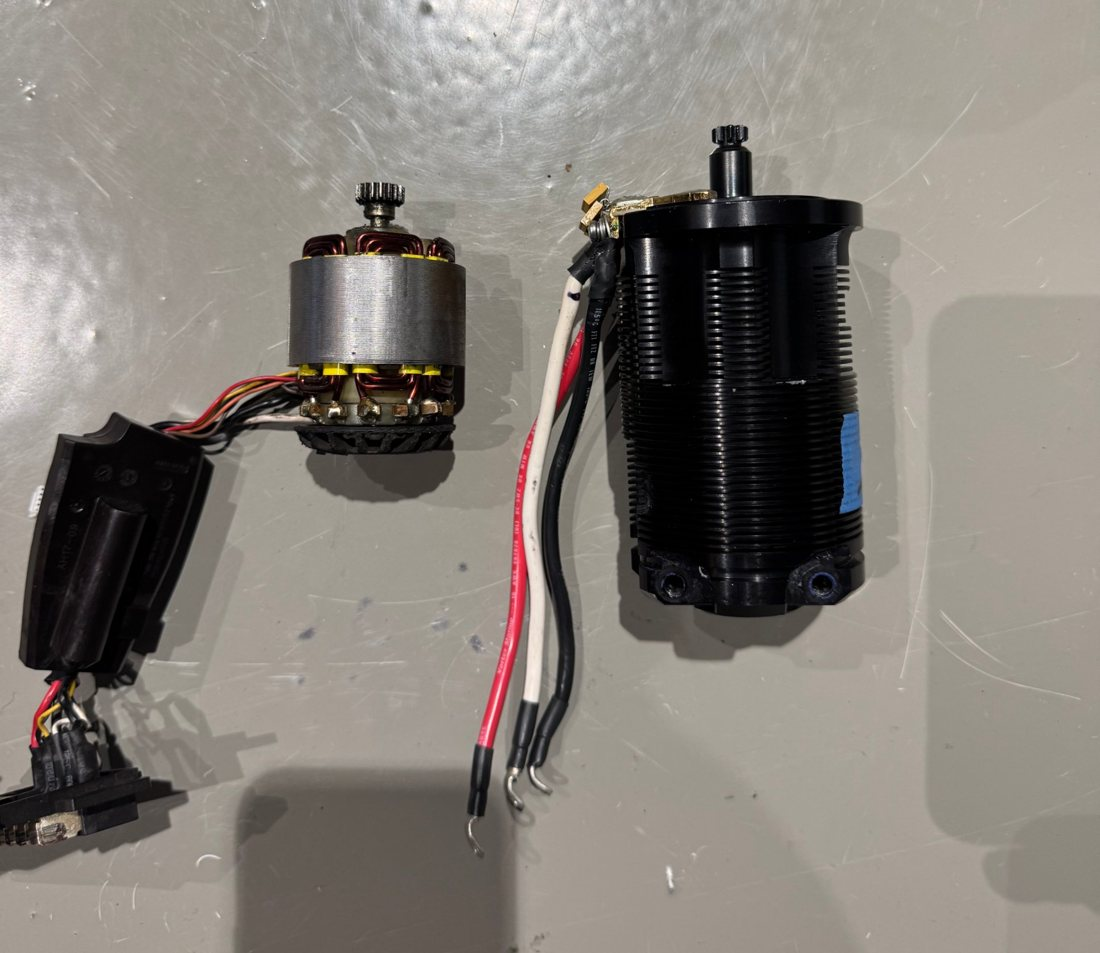
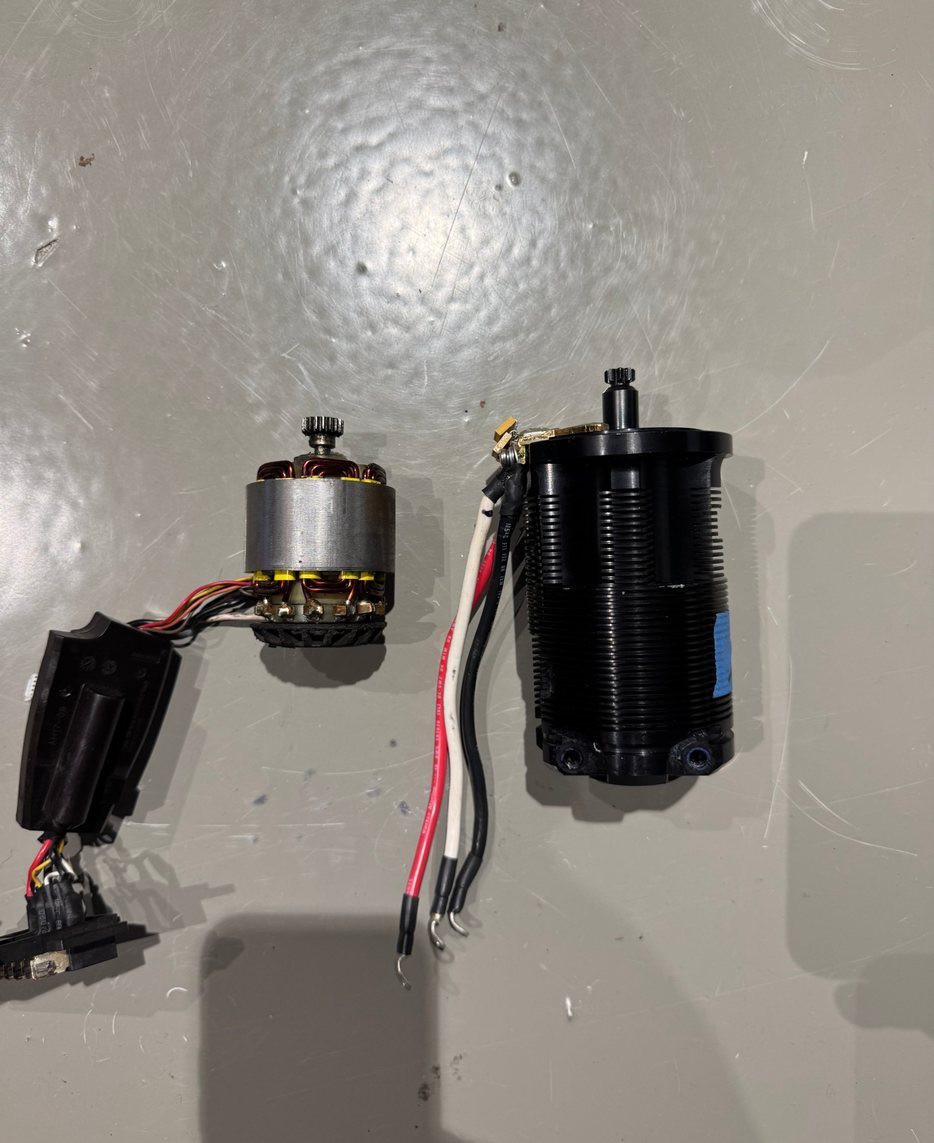
Equal-size images with enlarge and download option
Claude-Session: https://claude.ai/code/session_012P9K6FR71o1HDx9MVQ2to6

diff --git a/index.html b/index.html
@@ -174,12 +174,19 @@ table { border-collapse: collapse; width: 100%; }
 .advgrid .n { font-family: var(--font-display); font-weight: 700; font-size: 22px; line-height: 1; color: var(--accent); grid-row: span 2; padding-top: 2px; }
 .advgrid b { font-weight: 600; }
 .advgrid span.d { color: var(--muted); font-size: 14px; }
-.figs { display: grid; grid-template-columns: minmax(0, 1.15fr) minmax(0, 1fr); gap: 16px; align-items: start; }
+.figs { display: grid; grid-template-columns: repeat(2, minmax(0, 1fr)); gap: 16px; align-items: start; }
 .fig { margin: 0; display: flex; flex-direction: column; gap: 8px; }
-.fig img { width: 100%; height: auto; display: block; border-radius: 8px; border: 1px solid var(--line); cursor: zoom-in; }
+.figbtn { display: block; padding: 0; border: 1px solid var(--line); border-radius: 8px; overflow: hidden; background: #111; cursor: zoom-in; aspect-ratio: 934 / 1143; width: 100%; }
+.figbtn img { width: 100%; height: 100%; object-fit: cover; display: block; }
 .fig figcaption { font-size: 13px; color: var(--muted); }
-.fig.zoom { grid-column: 1 / -1; align-items: center; }
-.fig.zoom img { max-width: 860px; cursor: zoom-out; }
+.lb { position: fixed; inset: 0; z-index: 50; background: rgba(8, 12, 18, .88); display: none; flex-direction: column; align-items: center; gap: 12px; padding: 16px; }
+.lb.open { display: flex; }
+.lb-bar { display: flex; gap: 10px; align-items: center; flex-wrap: wrap; justify-content: center; }
+.lb-bar .t { color: #e7ecf2; font-weight: 500; }
+.lb-bar a, .lb-bar button { font: inherit; font-weight: 500; padding: 8px 16px; border-radius: 8px; border: 1px solid #5b6878; background: transparent; color: #e7ecf2; cursor: pointer; text-decoration: none; }
+.lb-bar a.dl { background: #e7ecf2; color: #13202f; border-color: #e7ecf2; }
+.lb-img { flex: 1; min-height: 0; max-width: 100%; display: flex; align-items: center; justify-content: center; }
+.lb-img img { max-width: 100%; max-height: 100%; object-fit: contain; border-radius: 6px; }
 @media (max-width: 760px) {
   .advgrid { grid-template-columns: minmax(0, 1fr); }
   .figs { grid-template-columns: minmax(0, 1fr); }
@@ -256,12 +263,16 @@ table { border-collapse: collapse; width: 100%; }
     </ul>
     <div class="figs">
       <figure class="fig">
-        <img src="img/motor.jpg" alt="Dva rozebrané motory vedle sebe: vlevo motor s vinutým statorem a elektronikou, vpravo nový motor v černém žebrovaném pouzdru" loading="lazy">
-        <figcaption>Porovnání motorů: B-RAD Select (vlevo) a nový motor B-RAD X (vpravo). Kliknutím obrázek zvětšíte.</figcaption>
+        <button type="button" class="figbtn" data-full="img/motor-velky.jpg" data-name="B-RAD-X-motory.jpg" data-title="Porovnání motorů B-RAD Select a B-RAD X" aria-label="Zvětšit obrázek: porovnání motorů">
+          <img src="img/motor.jpg" alt="Dva rozebrané motory vedle sebe: vlevo motor s vinutým statorem a elektronikou, vpravo nový motor v černém žebrovaném pouzdru" loading="lazy">
+        </button>
+        <figcaption>Porovnání motorů: B-RAD Select (vlevo) a nový motor B-RAD X (vpravo). Kliknutím zvětšíte a můžete stáhnout.</figcaption>
       </figure>
       <figure class="fig">
-        <img src="img/vyhody.jpg" alt="Přehled výhod B-RAD X oproti B-RAD Select: opakovatelnost, rychlost, účinnost, bezpečnostní prvky, baterie, ergonomie a odolnost" loading="lazy">
-        <figcaption>Výhody B-RAD X oproti B-RAD Select (podklad RAD Torque Systems). Kliknutím obrázek zvětšíte.</figcaption>
+        <button type="button" class="figbtn" data-full="img/vyhody-velky.jpg" data-name="B-RAD-X-vyhody.jpg" data-title="Výhody B-RAD X oproti B-RAD Select" aria-label="Zvětšit obrázek: výhody B-RAD X">
+          <img src="img/vyhody.jpg" alt="Přehled výhod B-RAD X oproti B-RAD Select: opakovatelnost, rychlost, účinnost, bezpečnostní prvky, baterie, ergonomie a odolnost" loading="lazy">
+        </button>
+        <figcaption>Výhody B-RAD X oproti B-RAD Select (podklad RAD Torque Systems). Kliknutím zvětšíte a můžete stáhnout.</figcaption>
       </figure>
     </div>
   </section>
@@ -555,10 +566,38 @@ table { border-collapse: collapse; width: 100%; }
   update();
 })();
 </script>
+<div class="lb" id="lb" role="dialog" aria-modal="true" aria-label="Náhled obrázku">
+  <div class="lb-bar">
+    <span class="t" id="lb-t"></span>
+    <a class="dl" id="lb-dl" href="#" download>Stáhnout obrázek</a>
+    <a id="lb-open" href="#" target="_blank" rel="noopener">Otevřít v novém okně</a>
+    <button type="button" id="lb-close">Zavřít</button>
+  </div>
+  <div class="lb-img"><img id="lb-img" alt=""></div>
+</div>
 <script>
-Array.prototype.forEach.call(document.querySelectorAll('.fig img'), function (img) {
-  img.addEventListener('click', function () { img.parentNode.classList.toggle('zoom'); });
-});
+(function () {
+  var lb = document.getElementById('lb'), last = null;
+  function open(btn) {
+    last = btn;
+    var src = btn.getAttribute('data-full');
+    document.getElementById('lb-img').src = src;
+    document.getElementById('lb-img').alt = btn.querySelector('img').alt;
+    document.getElementById('lb-t').textContent = btn.getAttribute('data-title');
+    var dl = document.getElementById('lb-dl');
+    dl.href = src; dl.setAttribute('download', btn.getAttribute('data-name'));
+    document.getElementById('lb-open').href = src;
+    lb.classList.add('open');
+    document.getElementById('lb-close').focus();
+  }
+  function close() { lb.classList.remove('open'); if (last) last.focus(); }
+  Array.prototype.forEach.call(document.querySelectorAll('.figbtn'), function (b) {
+    b.addEventListener('click', function () { open(b); });
+  });
+  document.getElementById('lb-close').addEventListener('click', close);
+  lb.addEventListener('click', function (e) { if (e.target === lb || e.target.className === 'lb-img') close(); });
+  document.addEventListener('keydown', function (e) { if (e.key === 'Escape' && lb.classList.contains('open')) close(); });
+})();
 </script>
 </body>
 </html>
